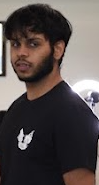
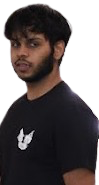
Succesfulyy added image and formated it to bio section

Changed region(s): [[0.0, 0.0, 1.0, 0.7027], [0.7273, 0.4595, 1.0, 1.0]]

diff --git a/index.html b/index.html
@@ -35,7 +35,7 @@
     </div>
 
 <div class="image-container">
-    <img class="home-pic" src="images/portrait.png">
+    <img class="home-pic" alt="Portrait of Brett" src="images/portrait.png">
 </div>
 
 <div class="text-container">

diff --git a/about.html b/about.html
@@ -37,7 +37,9 @@
     
        
     <div class="bio">
-        <h1>Brett</h2>
+        <h1>Brett</h1>
+        <img class="bio-pic" src="images/stormhacks.png" alt="Photo of me from stormhacks">
+
         
     </div>
     

diff --git a/about.css b/about.css
@@ -92,3 +92,7 @@
     
     
   }
+
+  .bio-pic{
+   
+  }
